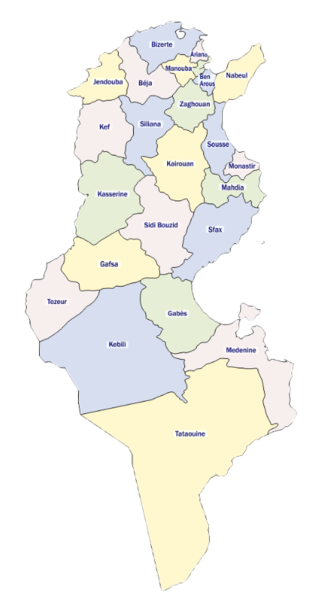
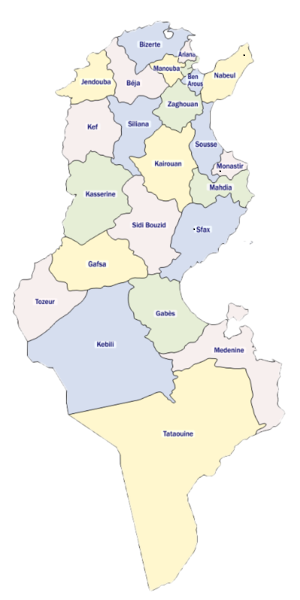
modif

diff --git a/index.html b/index.html
@@ -18,15 +18,15 @@
         <area>
         <area shape="poly" coords="156,35,167,43,158,46,141,50,161,43" href="bizerte.html">
         <area>
-        <area shape="poly" coords="130,170,139,84,150,87,119,93,149,86" href="beja.html">
+        <area shape="poly" coords="112,51,121,60,126,69,115,69,128,71" href="beja.html">
         <area>
         <area shape="poly" coords="93,70,86,85,100,87,89,81,95,85" href="jendouba.html">
         <area>
         <area shape="poly" coords="173,101,189,105,174,115,198,107,180,100" href="zaghouan.html">
         <area>
-        <area shape="poly" coords="284,122,91,133,106,127,89,137,93,129" href="kef.html">
+        <area shape="poly" coords="82,115,78,132,73,143,90,113,90,124" href="kef.html">
         <area>
-        <area shape="poly" coords="141,126,125,127,132,135,153,122,138,123" href="siliana.html">
+        <area shape="poly" coords="136,115,139,126,130,137,141,124,136,117" href="siliana.html">
         <area>
         <area shape="poly" coords="165,151,167,164,180,172,156,161,176,164" href="kairouan.html">
         <area>

diff --git a/style.css b/style.css
@@ -1,5 +1,5 @@
 body{
-    background-image: url('tnmap.png');
+    background-image: url('./images/map.png');
     background-size: cover;
     background-position: center;
     background-repeat: no-repeat;

diff --git a/modele3.css b/modele3.css
@@ -90,5 +90,5 @@ footer {
 }
 
 body {
-    background: url('bg3.jpeg') center/cover no-repeat fixed;
+    background: url('./images/bg3.jpeg') center/cover no-repeat fixed;
 }

diff --git a/modele1.css b/modele1.css
@@ -90,6 +90,6 @@ footer {
 }
 
 body {
-    background: url('bg.png') center/cover no-repeat fixed;
+    background: url('./images/bg.png') center/cover no-repeat fixed;
 }
 

diff --git a/modele2.css b/modele2.css
@@ -90,5 +90,5 @@ footer {
 }
 
 body {
-    background: url('bg2.jpg') center/cover no-repeat fixed;
+    background: url('./images/bg2.jpg') center/cover no-repeat fixed;
 }

diff --git a/modele4.css b/modele4.css
@@ -90,5 +90,5 @@ footer {
 }
 
 body{
-    background: url('bg4.jpg') center/cover no-repeat fixed;
+    background: url('./images/bg4.jpg') center/cover no-repeat fixed;
 }
